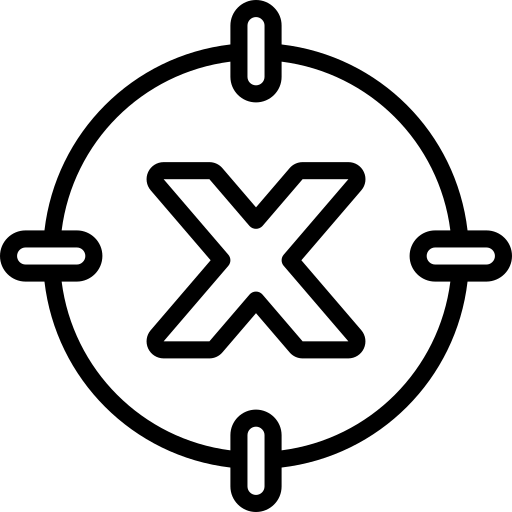
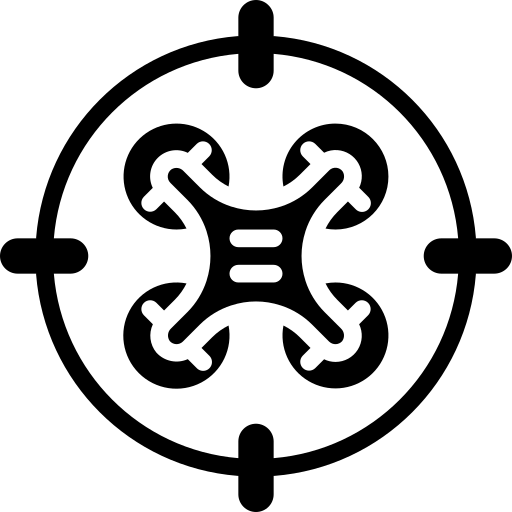
dispaly_pro

Changed region(s): [[0.0, 0.0, 1.0, 1.0], [0.2188, 0.2188, 0.7812, 0.7812]]

diff --git a/Visualisation.py b/Visualisation.py
@@ -2,25 +2,26 @@ import pygame
 from parce_data import Data
 
 
-
 class Screen:
 
     def __init__(self,
                  data: Data,
-                 s_width: int = 1800,
-                 s_height: int = 900) -> None:
+                 s_width: int = 1600,
+                 s_height: int = 850) -> None:
         self.width = s_width
         self.height = s_height
         self.data = data
-        self.color = get_color("Teal")
         self.name = pygame.display.set_caption("Fly-in")
         self.mode_scr = pygame.display.set_mode((self.width, self.height))
         self.clock = pygame.time.Clock()
         self.positions = {}
         self.calculate_bounds()
-    
+        self.bg_img = pygame.image.load("img/bg.png")
+        self.bg_img = pygame.transform.smoothscale(
+            self.bg_img, (self.width, self.height + 180))
+
     def draw_screen(self):
-        self.mode_scr.fill(self.color)
+        self.mode_scr.blit(self.bg_img, (0, 0))
 
     def calculate_bounds(self):
         all_nodes = []
@@ -31,10 +32,10 @@ class Screen:
         for zone in self.data.hub.values():
             all_nodes.append(zone)
         all_x = [z.x for z in all_nodes]
-        all_y = [z.y for z in all_nodes] 
+        all_y = [z.y for z in all_nodes]
         min_x, max_x = min(all_x), max(all_x)
-        min_y, max_y =  min(all_y), max(all_y)
-        
+        min_y, max_y = min(all_y), max(all_y)
+
         margin_x = 50
         margin_y = 50
         map_width = self.width - 2 * margin_x
@@ -44,50 +45,70 @@ class Screen:
             norm_y = (zone.y - min_y) / (max_y - min_y + 1e-5)
             screen_x = margin_x + norm_x * map_width
             screen_y = margin_y + norm_y * map_height
-            self.positions[(zone.x,zone.y)] = (int(screen_x),int(screen_y))
+            self.positions[(zone.x, zone.y)] = (int(screen_x), int(screen_y))
 
     def screen_coords(self, x, y):
         if (x, y) in self.positions:
-            return self.positions[(x,y)]
- 
+            return self.positions[(x, y)]
 
 
 class Zones_visu:
 
     def __init__(self, data, screen):
-        self.data = data
-        self.screen = screen
+        self.data: Data = data
+        self.screen: Screen = screen
 
     def draw_zones(self):
         if self.data.start_hub:
             color = get_color(self.data.start_hub.color_zone)
             pos = self.screen.screen_coords(self.data.start_hub.x,
                                             self.data.start_hub.y)
-            size = 60
-            rect_start = (pos[0] - size//2, pos[1] - size//2, size, size)
+            size = 73
+            rect_start = (pos[0] - size // 2, pos[1] - size // 2, size, size)
             pygame.draw.rect(self.screen.mode_scr, color, rect_start)
+            start_img = pygame.image.load("img/start.png")
+            size_img = 93
+            start_img = pygame.transform.smoothscale(start_img,
+                                                     (size_img, size_img))
+            pos_start = (pos[0] - size_img // 2, pos[1] - size_img // 2)
+            self.screen.mode_scr.blit(start_img, pos_start)
 
         if self.data.end_hub:
             color = get_color(self.data.end_hub.color_zone)
             pos = self.screen.screen_coords(self.data.end_hub.x,
                                             self.data.end_hub.y)
-            size = 60
-            rect_end = (pos[0] - size//2, pos[1] - size//2, size, size)
-            pygame.draw.rect(self.screen.mode_scr, color,rect_end)
+            size = 57
+            rect_end = (pos[0] - size // 2, pos[1] - size + 10 // 2, size,
+                        size + 50)
+            pygame.draw.rect(self.screen.mode_scr, color, rect_end)
+            end_img = pygame.image.load("img/exit.png").convert_alpha()
+            size_end = 93
+            end_img = pygame.transform.smoothscale(end_img,
+                                                   (size_end, size_end))
+            pos_end = (pos[0] - size_img // 2, pos[1] - size_img // 2)
+            self.screen.mode_scr.blit(end_img, pos_end)
 
-        for value in self.data.hub.values():
+        hub_img = pygame.image.load("img/target.png").convert_alpha()
+        for key, value in self.data.hub.items():
+            if self.data.start_hub.name == key:
+                continue
+            if self.data.end_hub.name == key:
+                continue
             color = get_color(value.color_zone)
             pos = self.screen.screen_coords(value.x, value.y)
-            pygame.draw.circle(self.screen.mode_scr, color,pos,30)
-    
-    
+            pygame.draw.circle(self.screen.mode_scr, color, pos, 30)
+            size = 60
+            hub_img = pygame.transform.smoothscale(hub_img, (size, size))
+            self.screen.mode_scr.blit(hub_img,
+                                      (pos[0] - size // 2, pos[1] - size // 2))
+
 
 class Connection_visu(Zones_visu):
-    
+
     def __init__(self, data, screen):
-        self.color_conx =  get_color("Mustard")
+        self.color_conx = get_color("gray")
         super().__init__(data, screen)
-    
+
     def get_hub_by_name(self, name):
         if name == self.data.start_hub.name:
             return self.data.start_hub
@@ -95,39 +116,43 @@ class Connection_visu(Zones_visu):
             return self.data.end_hub
         if name in self.data.hub:
             return self.data.hub[name]
-             
+
     def draw_connection(self):
         for c in self.data.connections:
             res_zon1 = self.get_hub_by_name(c.zone1)
             res_zon2 = self.get_hub_by_name(c.zone2)
-            pos1 = self.screen.screen_coords(res_zon1.x,res_zon1.y)
+            pos1 = self.screen.screen_coords(res_zon1.x, res_zon1.y)
             pos2 = self.screen.screen_coords(res_zon2.x, res_zon2.y)
-            pygame.draw.line(self.screen.mode_scr,self.color_conx, pos1, pos2, 3)
+            pygame.draw.line(self.screen.mode_scr, self.color_conx, pos1, pos2,
+                             3)
+
 
 class Drones_visu(Connection_visu):
+
     def __init__(self, data, screen, path):
         super().__init__(data, screen)
         self.path = path
         self.img = pygame.image.load("img/drone.png")
         self.img = pygame.transform.scale(self.img, (60, 60))
         self.drones_list = []
- 
-        for i, (dr_name, path_names) in enumerate (self.path.items(), start= 1):
+
+        for i, (dr_name, path_names) in enumerate(self.path.items(), start=1):
             self.path_pixels = []
             for name in path_names:
                 res = self.get_hub_by_name(name)
-                d_x, d_y=  self.screen.screen_coords(res.x, res.y)
-                self.path_pixels.append((d_x,d_y))
+                d_x, d_y = self.screen.screen_coords(res.x, res.y)
+                self.path_pixels.append((d_x, d_y))
             drone_info = {
-                "name":dr_name,
-                "path_pixels":self.path_pixels,
+                "name": dr_name,
+                "path_pixels": self.path_pixels,
                 "current_x": self.path_pixels[0][0],
                 "current_y": self.path_pixels[0][1],
                 "target": 1,
-                "speed": 4,
-                "delay": i * 40   
+                "speed": 8,
+                "delay": i * 30
             }
             self.drones_list.append(drone_info)
+
     def move_drones(self):
         for drone in self.drones_list:
             if drone["delay"] > 0:
@@ -138,38 +163,36 @@ class Drones_visu(Connection_visu):
                 target_x, target_y = drone["path_pixels"][drone["target"]]
                 dx = target_x - drone["current_x"]
                 dy = target_y - drone["current_y"]
-                distance = (dx**2 + dy**2)** 0.5
+                distance = (dx**2 + dy**2)**0.5
                 if distance <= drone["speed"]:
                     drone["current_x"], drone["current_y"] = target_x, target_y
                     drone["target"] += 1
                 else:
                     drone["current_x"] += (dx / distance) * drone["speed"]
                     drone["current_y"] += (dy / distance) * drone["speed"]
-                  
-    
+
     def draw_drone(self) -> None:
         img_width = self.img.get_width()
         img_height = self.img.get_height()
         for drone in self.drones_list:
             if drone["delay"] == 0:
-                pos_x = drone["current_x"]- img_width // 2
+                pos_x = drone["current_x"] - img_width // 2
                 pos_y = drone["current_y"] - img_height // 2
                 self.screen.mode_scr.blit(self.img, (pos_x, pos_y))
-        
+
     def reset(self) -> None:
         for drone in self.drones_list:
             drone["current_x"] = self.path_pixels[0][0]
             drone["current_y"] = self.path_pixels[0][1]
             drone["target"] = 1
-    
-    
 
-def redrawGame(screen, zones,conx,drone):
+
+def redrawGame(screen, zones, conx, drone):
     screen.draw_screen()
     conx.draw_connection()
     zones.draw_zones()
     drone.draw_drone()
-   
+
     pygame.display.update()
 
 
@@ -178,7 +201,7 @@ def get_color(name_color):
         color = pygame.Color(name_color)
         return color
     except ValueError:
-        return pygame.Color("gray")
+        return pygame.Color("red")
 
 
 def run(data, path):
@@ -189,14 +212,12 @@ def run(data, path):
     screen.draw_screen()
     zones = Zones_visu(data, screen)
     conx = Connection_visu(data, screen)
-    
-    my_paths = {
-        "drone1": path
-    }
-    
-    drone = Drones_visu(data, screen,my_paths)
+
+    my_paths = {"drone1": path[0]}
+
+    drone = Drones_visu(data, screen, my_paths)
     pause = False
-    
+
     while True:
         screen.clock.tick(30)
         for event in pygame.event.get():
@@ -210,9 +231,7 @@ def run(data, path):
                     drone.reset()
                 elif event.key == pygame.K_q:
                     quit()
-                
 
         if not pause:
             drone.move_drones()
         redrawGame(screen, zones, conx, drone)
-

diff --git a/main.py b/main.py
@@ -9,8 +9,8 @@ if __name__ == "__main__":
         file = data.read_file(sys.argv[1])
         data.parce_data(file)
         graph = Graph(data)
-        graph.refind_path()
-        # run(data, path)
+        path = graph.refind_path()
+        run(data, path)
         
     # except Exception as e:
     #     print(f"Error: {type(e).__name__}: {e}")   